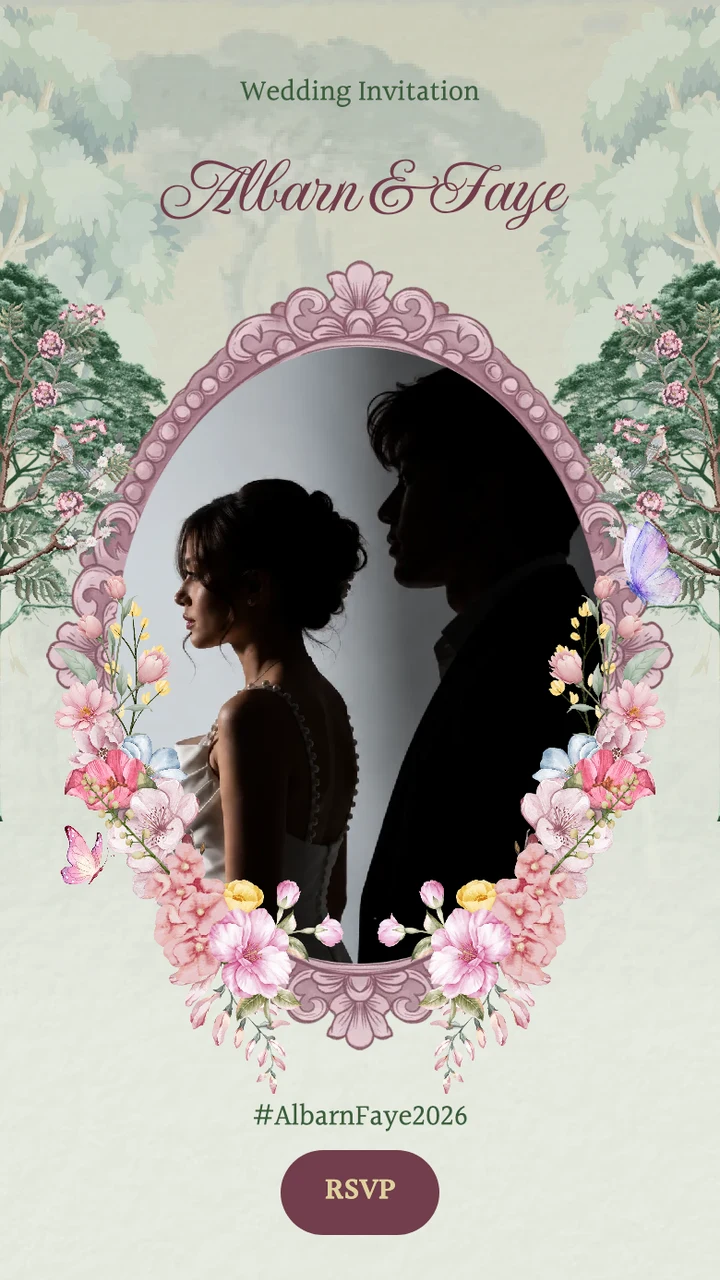
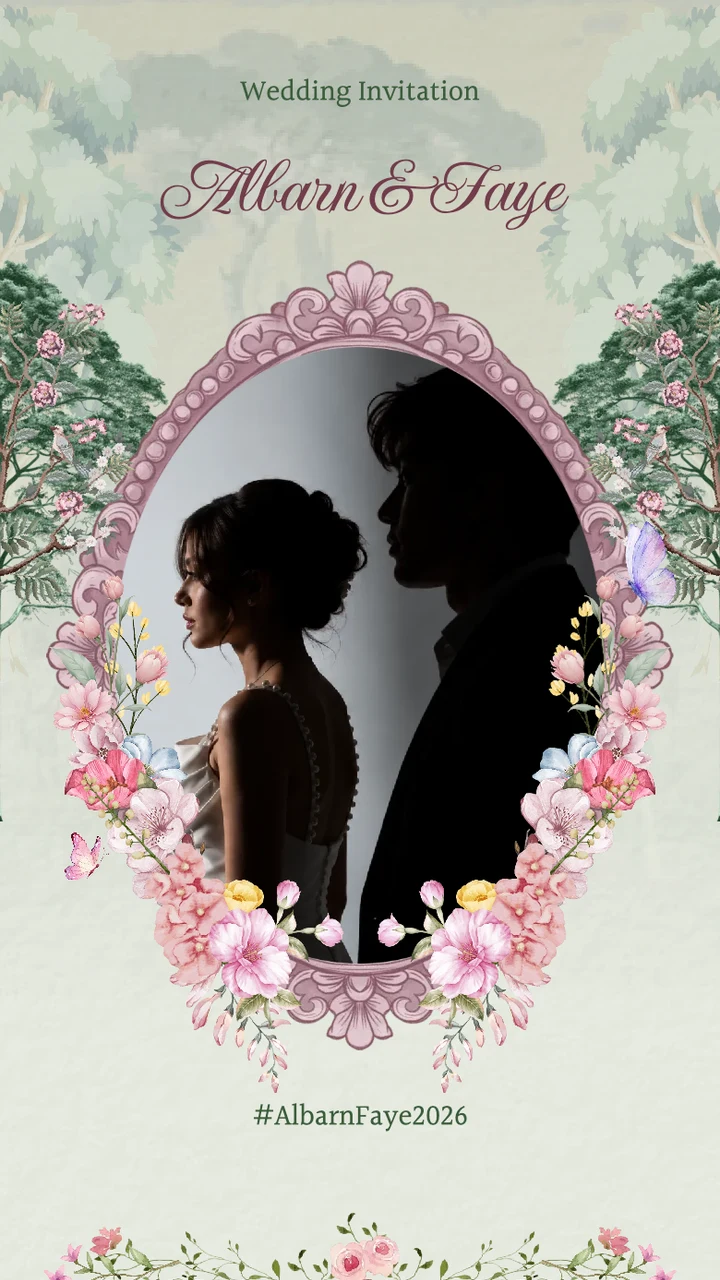
fix(swan-garden): drop the cover RSVP pill
The real invitation's only RSVP entry point is the floating
InvitationOverlay dock, so the cover no longer repeats it. The hashtag keeps
its place in the cover foot and the thumbnail was recaptured.

diff --git a/src/components/templates/swan-garden/sections/Cover.tsx b/src/components/templates/swan-garden/sections/Cover.tsx
@@ -10,10 +10,9 @@ type Props = {
   coupleLabel: string
   kicker: string
   hashtag: string
-  rsvpLabel: string
 }
 
-export default function Cover({ profile, coupleLabel, kicker, hashtag, rsvpLabel }: Props) {
+export default function Cover({ profile, coupleLabel, kicker, hashtag }: Props) {
   const desktop = profile.cover_photos?.[0] || ""
   const mobile = profile.cover_photos?.[1] || desktop
 
@@ -43,14 +42,7 @@ export default function Cover({ profile, coupleLabel, kicker, hashtag, rsvpLabel
           </div>
           <Backdrop items={cover3} />
         </div>
-        <div className="foot">
-          {hashtag ? <p className="fade-up">{hashtag}</p> : null}
-          <div className="torsvp__btn-wrap">
-            <a href="#toRsvp" className="torsvp__btn">
-              {rsvpLabel}
-            </a>
-          </div>
-        </div>
+        <div className="foot">{hashtag ? <p className="fade-up">{hashtag}</p> : null}</div>
       </div>
     </section>
   )

diff --git a/src/components/templates/swan-garden/Wishes.tsx b/src/components/templates/swan-garden/Wishes.tsx
@@ -131,7 +131,7 @@ export default function Wishes({
   const paged = useMemo(() => wishes.slice(page * PAGE_SIZE, (page + 1) * PAGE_SIZE), [wishes, page])
 
   return (
-    <section className="wedding-wish-wrap" id="toRsvp" data-section-order="wedding_wish">
+    <section className="wedding-wish-wrap" data-section-order="wedding_wish">
       <div className="wedding-wish-inner">
         <div className="wedding-wish-head">
           <h1 className="wedding-wish-title">{title}</h1>

diff --git a/src/components/templates/swan-garden/index.tsx b/src/components/templates/swan-garden/index.tsx
@@ -272,7 +272,6 @@ export default function SwanGardenTemplate(profile: TemplateProps) {
             coupleLabel={coupleLabel}
             kicker={copy("cover_kicker")}
             hashtag={hashtag}
-            rsvpLabel="RSVP"
           />
           <Quote
             text={profile.quote_text || ""}

diff --git a/docs/REA_SWAN_GARDEN.md b/docs/REA_SWAN_GARDEN.md
@@ -49,7 +49,7 @@ Reference order, heights at 390×844 (measured in a settled viewport):
 | Reference block | Height | Shipped as |
 |---|---|---|
 | `top-cover` (gate) | 844 fixed | `TopCover` — arch, VIP plate, names, guest, Open |
-| `cover` | 699 | `Cover` — kicker, names, oval frame, hashtag, RSVP |
+| `cover` | 699 | `Cover` — kicker, names, oval frame, hashtag |
 | `quote-wrap` | 473 | `Quote` — wreath frame, quote + attribution (or couple's words) |
 | `couple-wrap` | 1573 | `Couple` — two portraits, parents, Instagram |
 | `save-date-wrap` | 729 | `SaveDate` — countdown cards + Add to Calendar |
@@ -188,9 +188,12 @@ WCAG names, the wish pager back label, the `Hai` salutation).
    payment source of truth. *What is lost:* couples cannot collect transfer
    proofs from the invitation. The bank cards, copy buttons and gift address
    are kept.
-3. **The reference's own RSVP block is not a section.** It is a heading with an
-   empty body in the source; attendance/pax/QR belong to the shared
-   `InvitationOverlay` dock, rendered inside the template with the
+3. **The reference's own RSVP block is not a section, and its cover button is
+   gone.** In the source the RSVP block is a heading with an empty body; the
+   cover's plum `RSVP` pill only scrolled to it. Attendance/pax/QR belong to the
+   shared `InvitationOverlay` dock, so the cover pill was **removed at the
+   owner's request** (the floating dock is the only RSVP entry point in a real
+   invitation). The dock is rendered inside the template with the
    `preview_mode` / `template_demo` guards.
 4. **Story slider renders one slide at a time.** The reference's slick clones
    both slides into the DOM (2×13 ornaments); ours renders the active slide's
